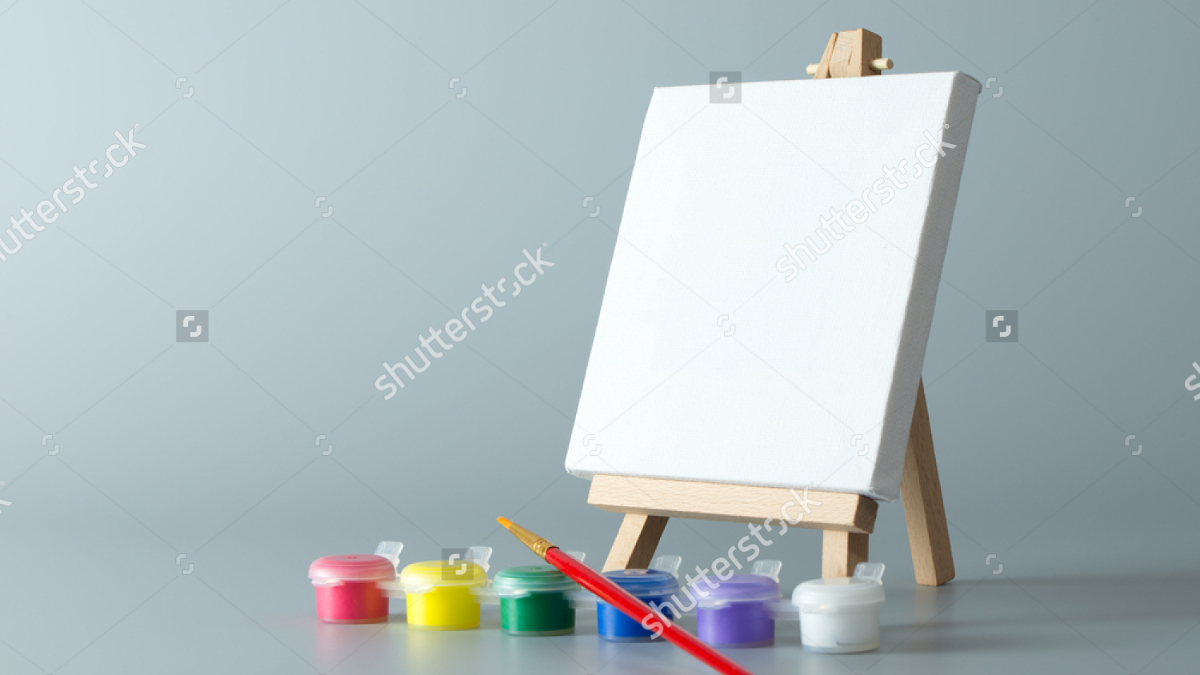
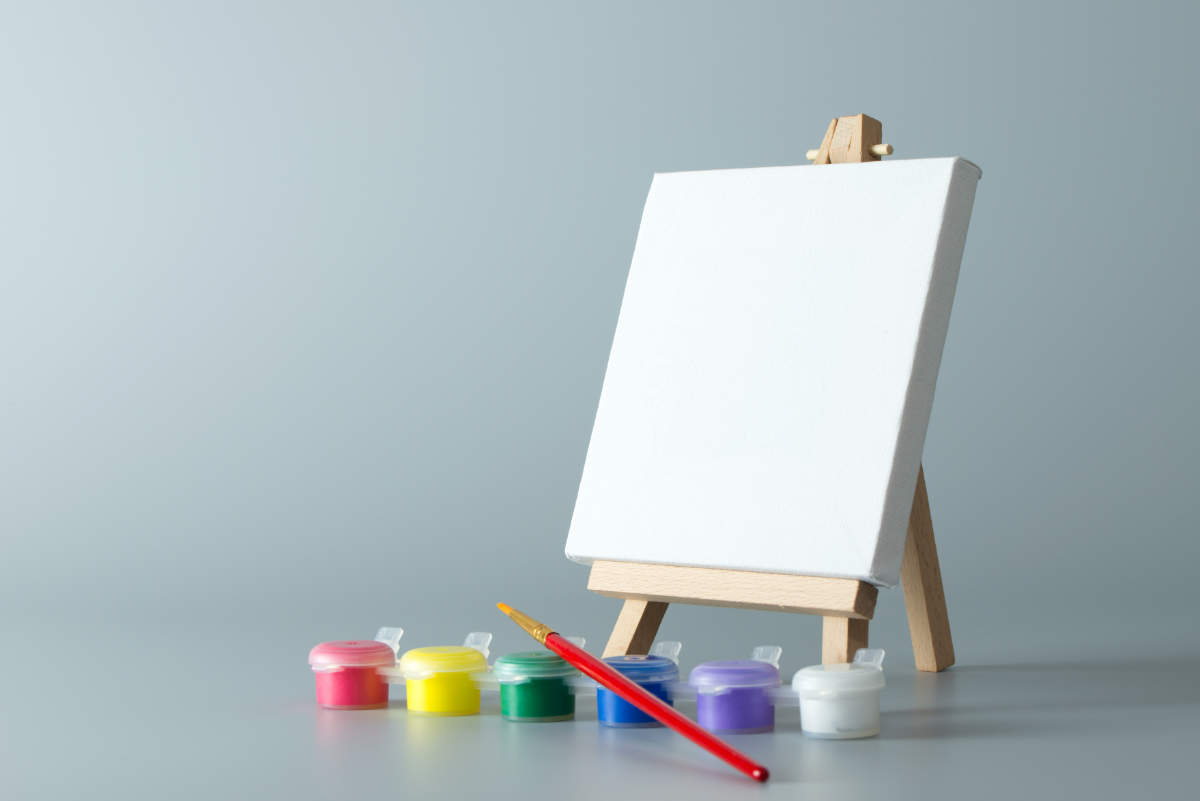
Replace images on Pastel Addicts page with final versions.

diff --git a/pastel-addicts.php b/pastel-addicts.php
@@ -11,12 +11,12 @@
                 <?php include("header.php"); ?>
 
                 <div class="page-content binksy project"> 
-                    <img src="images/pastel-blocks-main.jpg"/>
+                    <img src="images/pastel-addicts-s.jpg" srcset="images/pastel-addicts-m.jpg 800w, images/pastel-addicts-l.jpg 1200w, images/pastel-addicts-xl.jpg 1500w" alt="Pastel coloured squares"/>
 
                     <h1>Pastel Addicts</h1>
                     <p>Pastel Addicts are a unique, quirky art supply store in central London. The twist - they actually own a gallery where the supplies are sold. This beautiful building is minimal, and art focused. Their branding needed to match.</p>
 
-                    <img src="images/brushes-s.jpg" srcset="images/brushes-m.jpg 800w, images/brushes-l.jpg 1200w, images/brushes-xl.jpg 1500w" alt="Paint brushes"/>
+                    <img src="images/paintbrushes-s.jpg" srcset="images/paintbrushes-m.jpg 800w, images/paintbrushes-l.jpg 1200w, images/paintbrushes-xl.jpg 1500w" alt="Paint brushes"/>
 
                     <img src="images/gallery-s.jpg" srcset="images/gallery-m.jpg 800w, images/gallery-l.jpg 1200w, images/gallery-xl.jpg 1600w" alt="Gallery studio"/>
 
